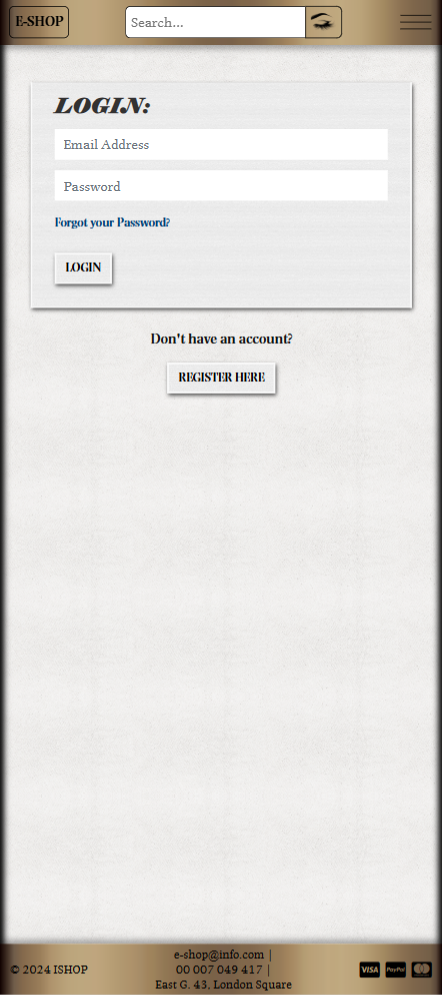
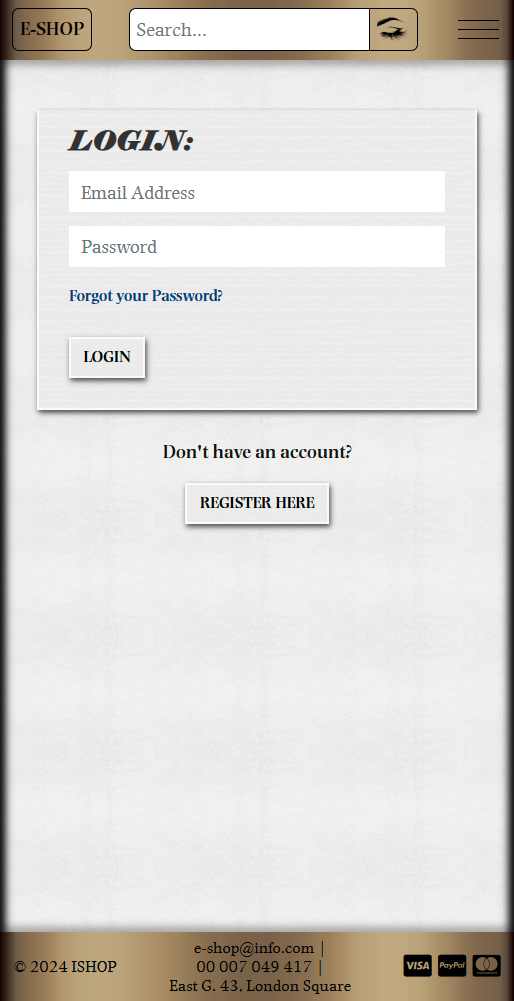
Upload smartphone screenshots for readme

Changed region(s): [[0.0, 0.0, 1.0, 1.0], [0.0588, 0.2804, 0.0882, 0.3427]]

diff --git a/readme.md b/readme.md
@@ -110,9 +110,9 @@ c) I want to update my personal or account details.
 ![4.1-fonts](docs/readme_images/4.1-fonts.png)
 
 
-### **4.2. Screenshots of All Website Pages** 
+### **4.2. Website Images** 
 
-#### **4.2.1. Desktop Resolution** 
+#### **4.2.1. Desktop View** 
 
 ***Click on the ">" to see images***
 
@@ -185,6 +185,80 @@ c) I want to update my personal or account details.
     <summary>Register</summary>
     <img src="https://raw.githubusercontent.com/GlennJohansson85/e-shop/main/docs/readme_images/register-d.png" alt="Screenshot of Page 'Register' in desktop view">
 </details>
+
+#### **4.2.2. Smartphone View** 
+
+<details>
+    <summary>Home</summary>
+    <img src="https://raw.githubusercontent.com/GlennJohansson85/e-shop/main/docs/readme_images/home-m.png" alt="Screenshot of Page 'Home' in desktop view">
+</details>
+
+<details>
+    <summary>Products</summary>
+    <img src="https://raw.githubusercontent.com/GlennJohansson85/e-shop/main/docs/readme_images/products-m.png" alt="Screenshot of Page 'Products' in desktop view">
+</details>
+
+<details>
+    <summary>Product Details</summary>
+    <img src="https://raw.githubusercontent.com/GlennJohansson85/e-shop/main/docs/readme_images/product_detail-m.png" alt="Screenshot of Page 'Product Details' in desktop view">
+</details>
+
+<details>
+    <summary>Cart</summary>
+    <img src="https://raw.githubusercontent.com/GlennJohansson85/e-shop/main/docs/readme_images/cart-m.png" alt="Screenshot of Page 'Cart' in desktop view">
+</details>
+
+<details>
+    <summary>Checkout / Billing Address</summary>
+    <img src="https://raw.githubusercontent.com/GlennJohansson85/e-shop/main/docs/readme_images/checkout-m.png" alt="Screenshot of Page 'Checkout' in desktop view">
+</details>
+
+<details>
+    <summary>Payments / Place order </summary>
+    <img src="https://raw.githubusercontent.com/GlennJohansson85/e-shop/main/docs/readme_images/place_order-m.png" alt="Screenshot of Page 'Payments/Place Order' in desktop view">
+</details>
+
+<details>
+    <summary>Order Complete</summary>
+    <img src="https://raw.githubusercontent.com/GlennJohansson85/e-shop/main/docs/readme_images/order_complete-m.png" alt="Screenshot of Page 'Order Complete' in desktop view">
+</details>
+
+<details>
+    <summary>Order Details</summary>
+    <img src="https://raw.githubusercontent.com/GlennJohansson85/e-shop/main/docs/readme_images/order_details-m.png" alt="Screenshot of Page 'Order Details' in desktop view">
+</details>
+
+<details>
+    <summary>Dashboard</summary>
+    <img src="https://raw.githubusercontent.com/GlennJohansson85/e-shop/main/docs/readme_images/dashboard-m.png" alt="Screenshot of Page 'Dashboard' in desktop view">
+</details>
+
+<details>
+    <summary>My Orders</summary>
+    <img src="https://raw.githubusercontent.com/GlennJohansson85/e-shop/main/docs/readme_images/my_orders-m.png" alt="Screenshot of Page 'My Orders' in desktop view">
+</details>
+
+<details>
+    <summary>Edit Profile</summary>
+    <img src="https://raw.githubusercontent.com/GlennJohansson85/e-shop/main/docs/readme_images/edit_profile-m.png" alt="Screenshot of Page 'Edit Profile' in desktop view">
+</details>
+
+<details>
+    <summary>Change Password</summary>
+    <img src="https://raw.githubusercontent.com/GlennJohansson85/e-shop/main/docs/readme_images/change_password-m.png" alt="Screenshot of Page 'Change Password' in desktop view">
+</details>
+
+<details>
+    <summary>Login</summary>
+    <img src="https://raw.githubusercontent.com/GlennJohansson85/e-shop/main/docs/readme_images/login-m.png" alt="Screenshot of Page 'Login' in desktop view">
+</details>
+
+<details>
+    <summary>Register</summary>
+    <img src="https://raw.githubusercontent.com/GlennJohansson85/e-shop/main/docs/readme_images/register-m.png" alt="Screenshot of Page 'Register' in desktop view">
+</details>
+
+
 
 # 2 - Wireframes
 
